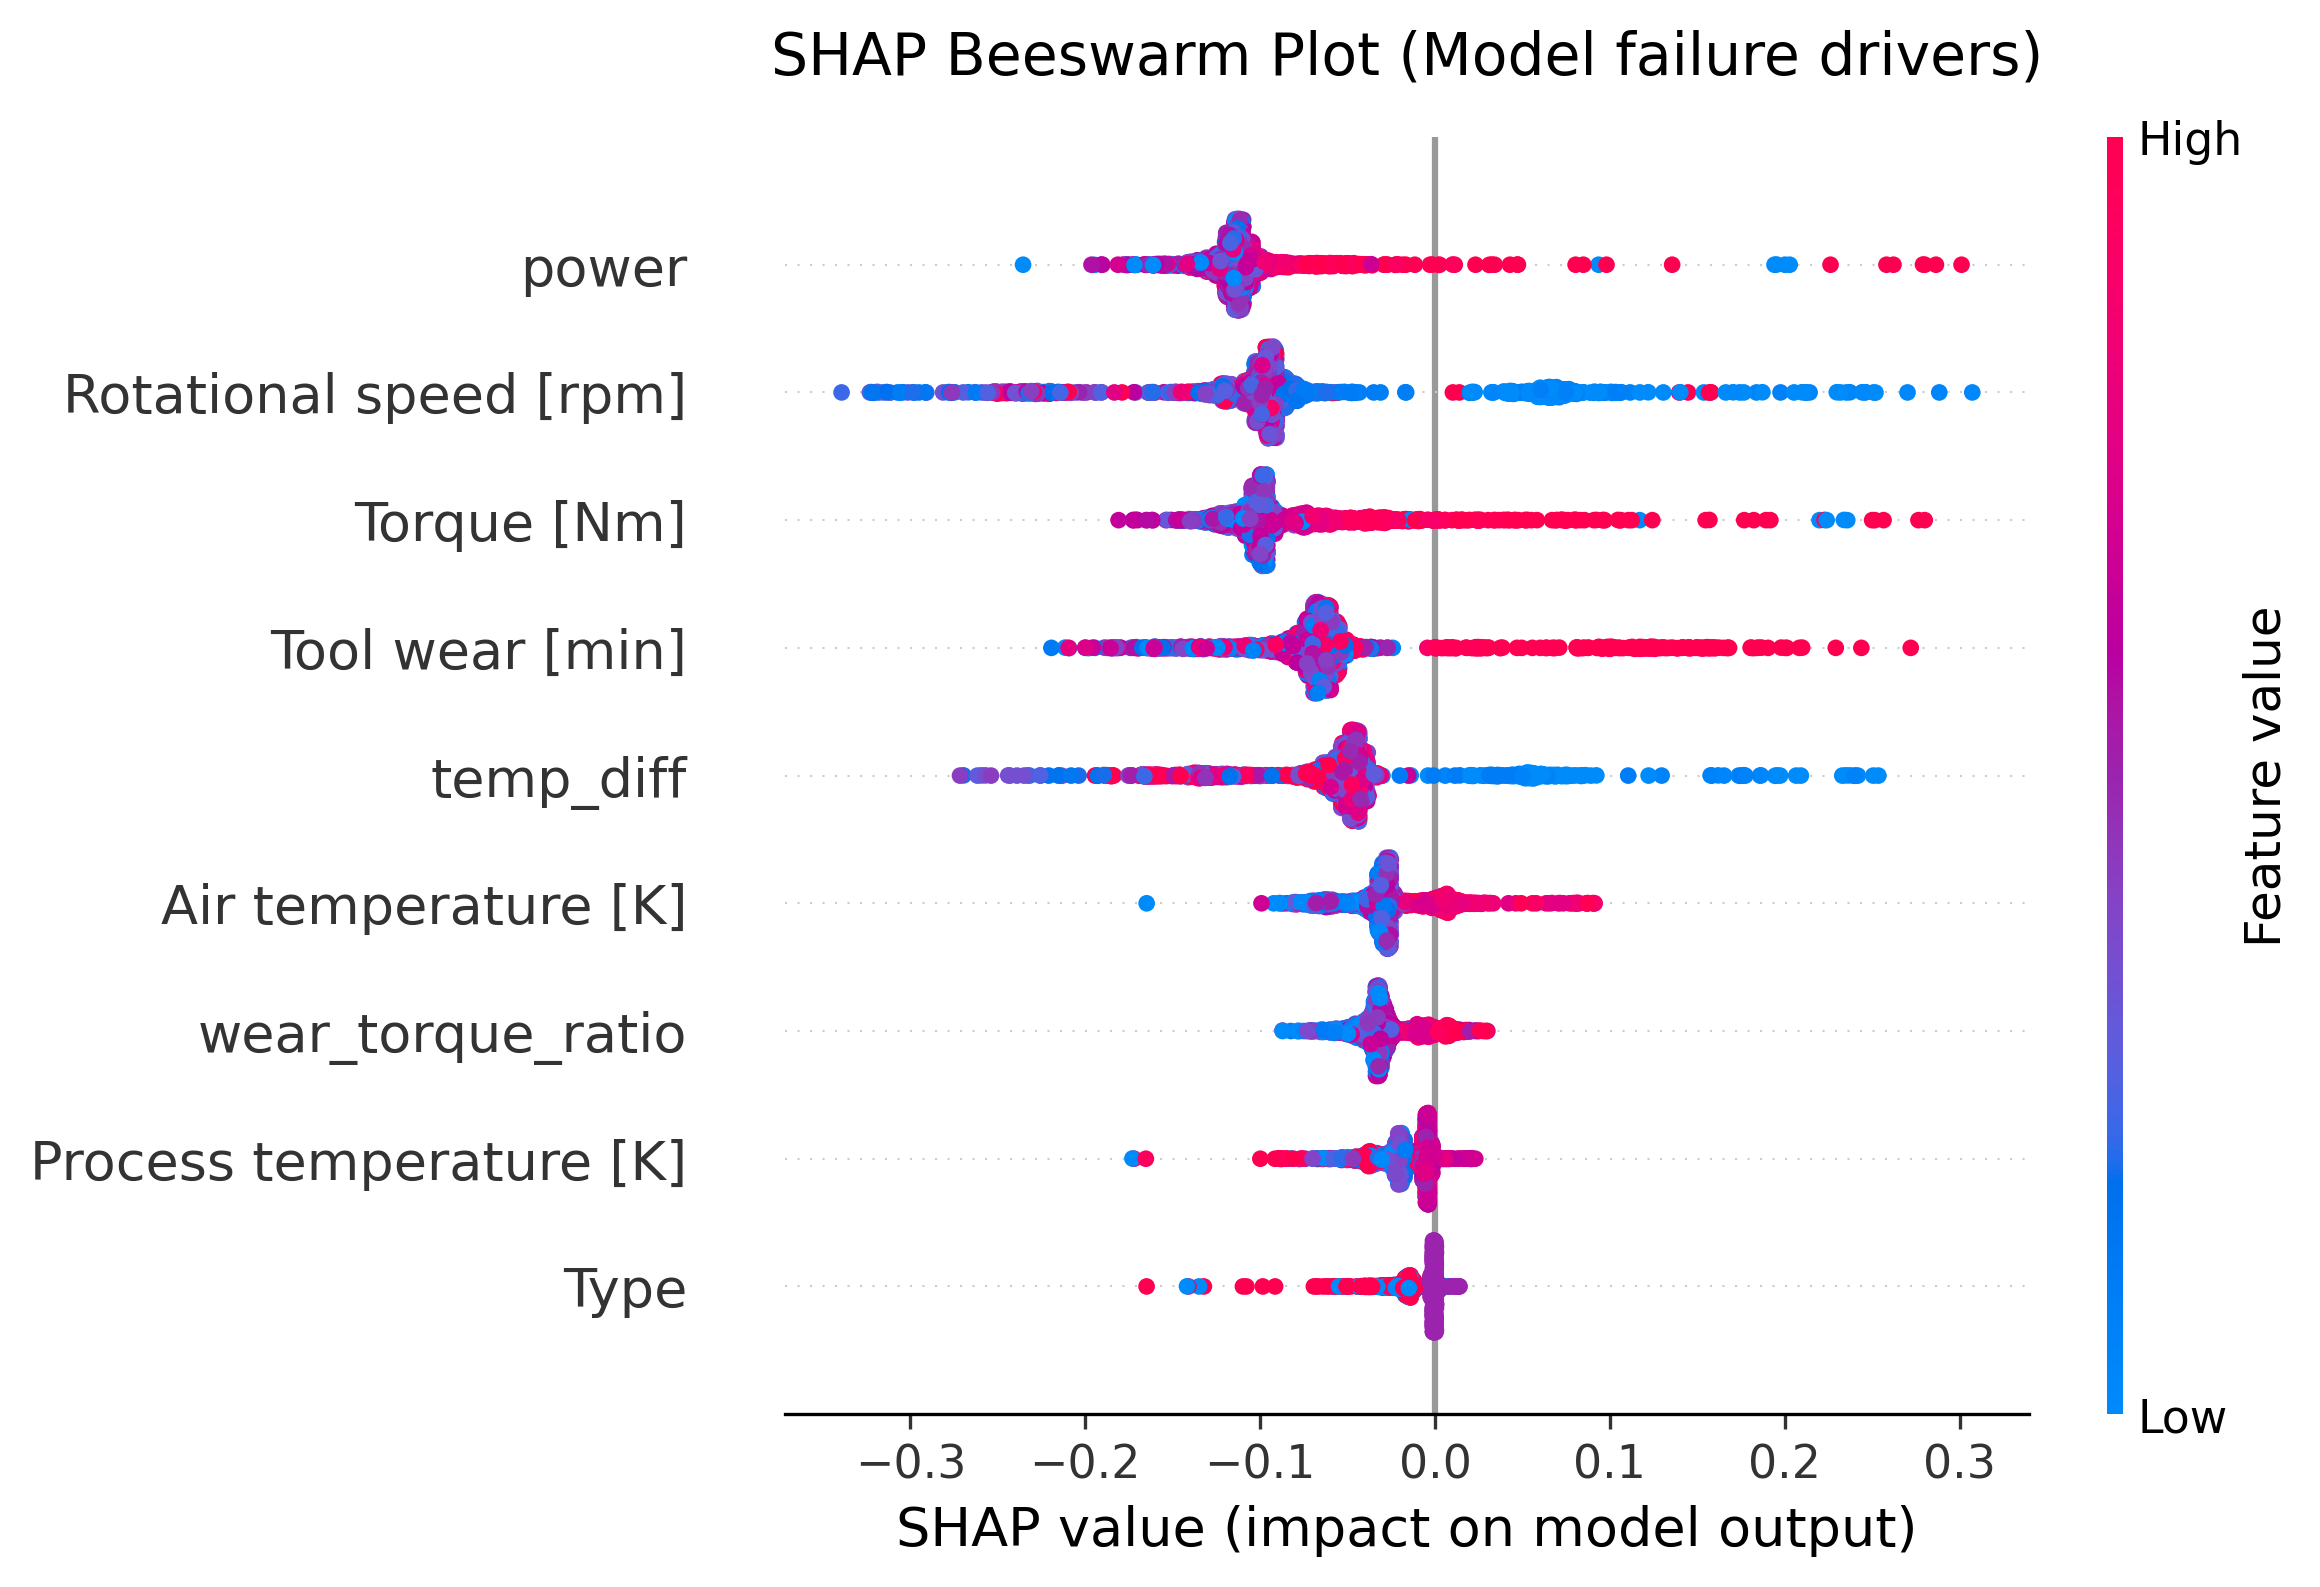
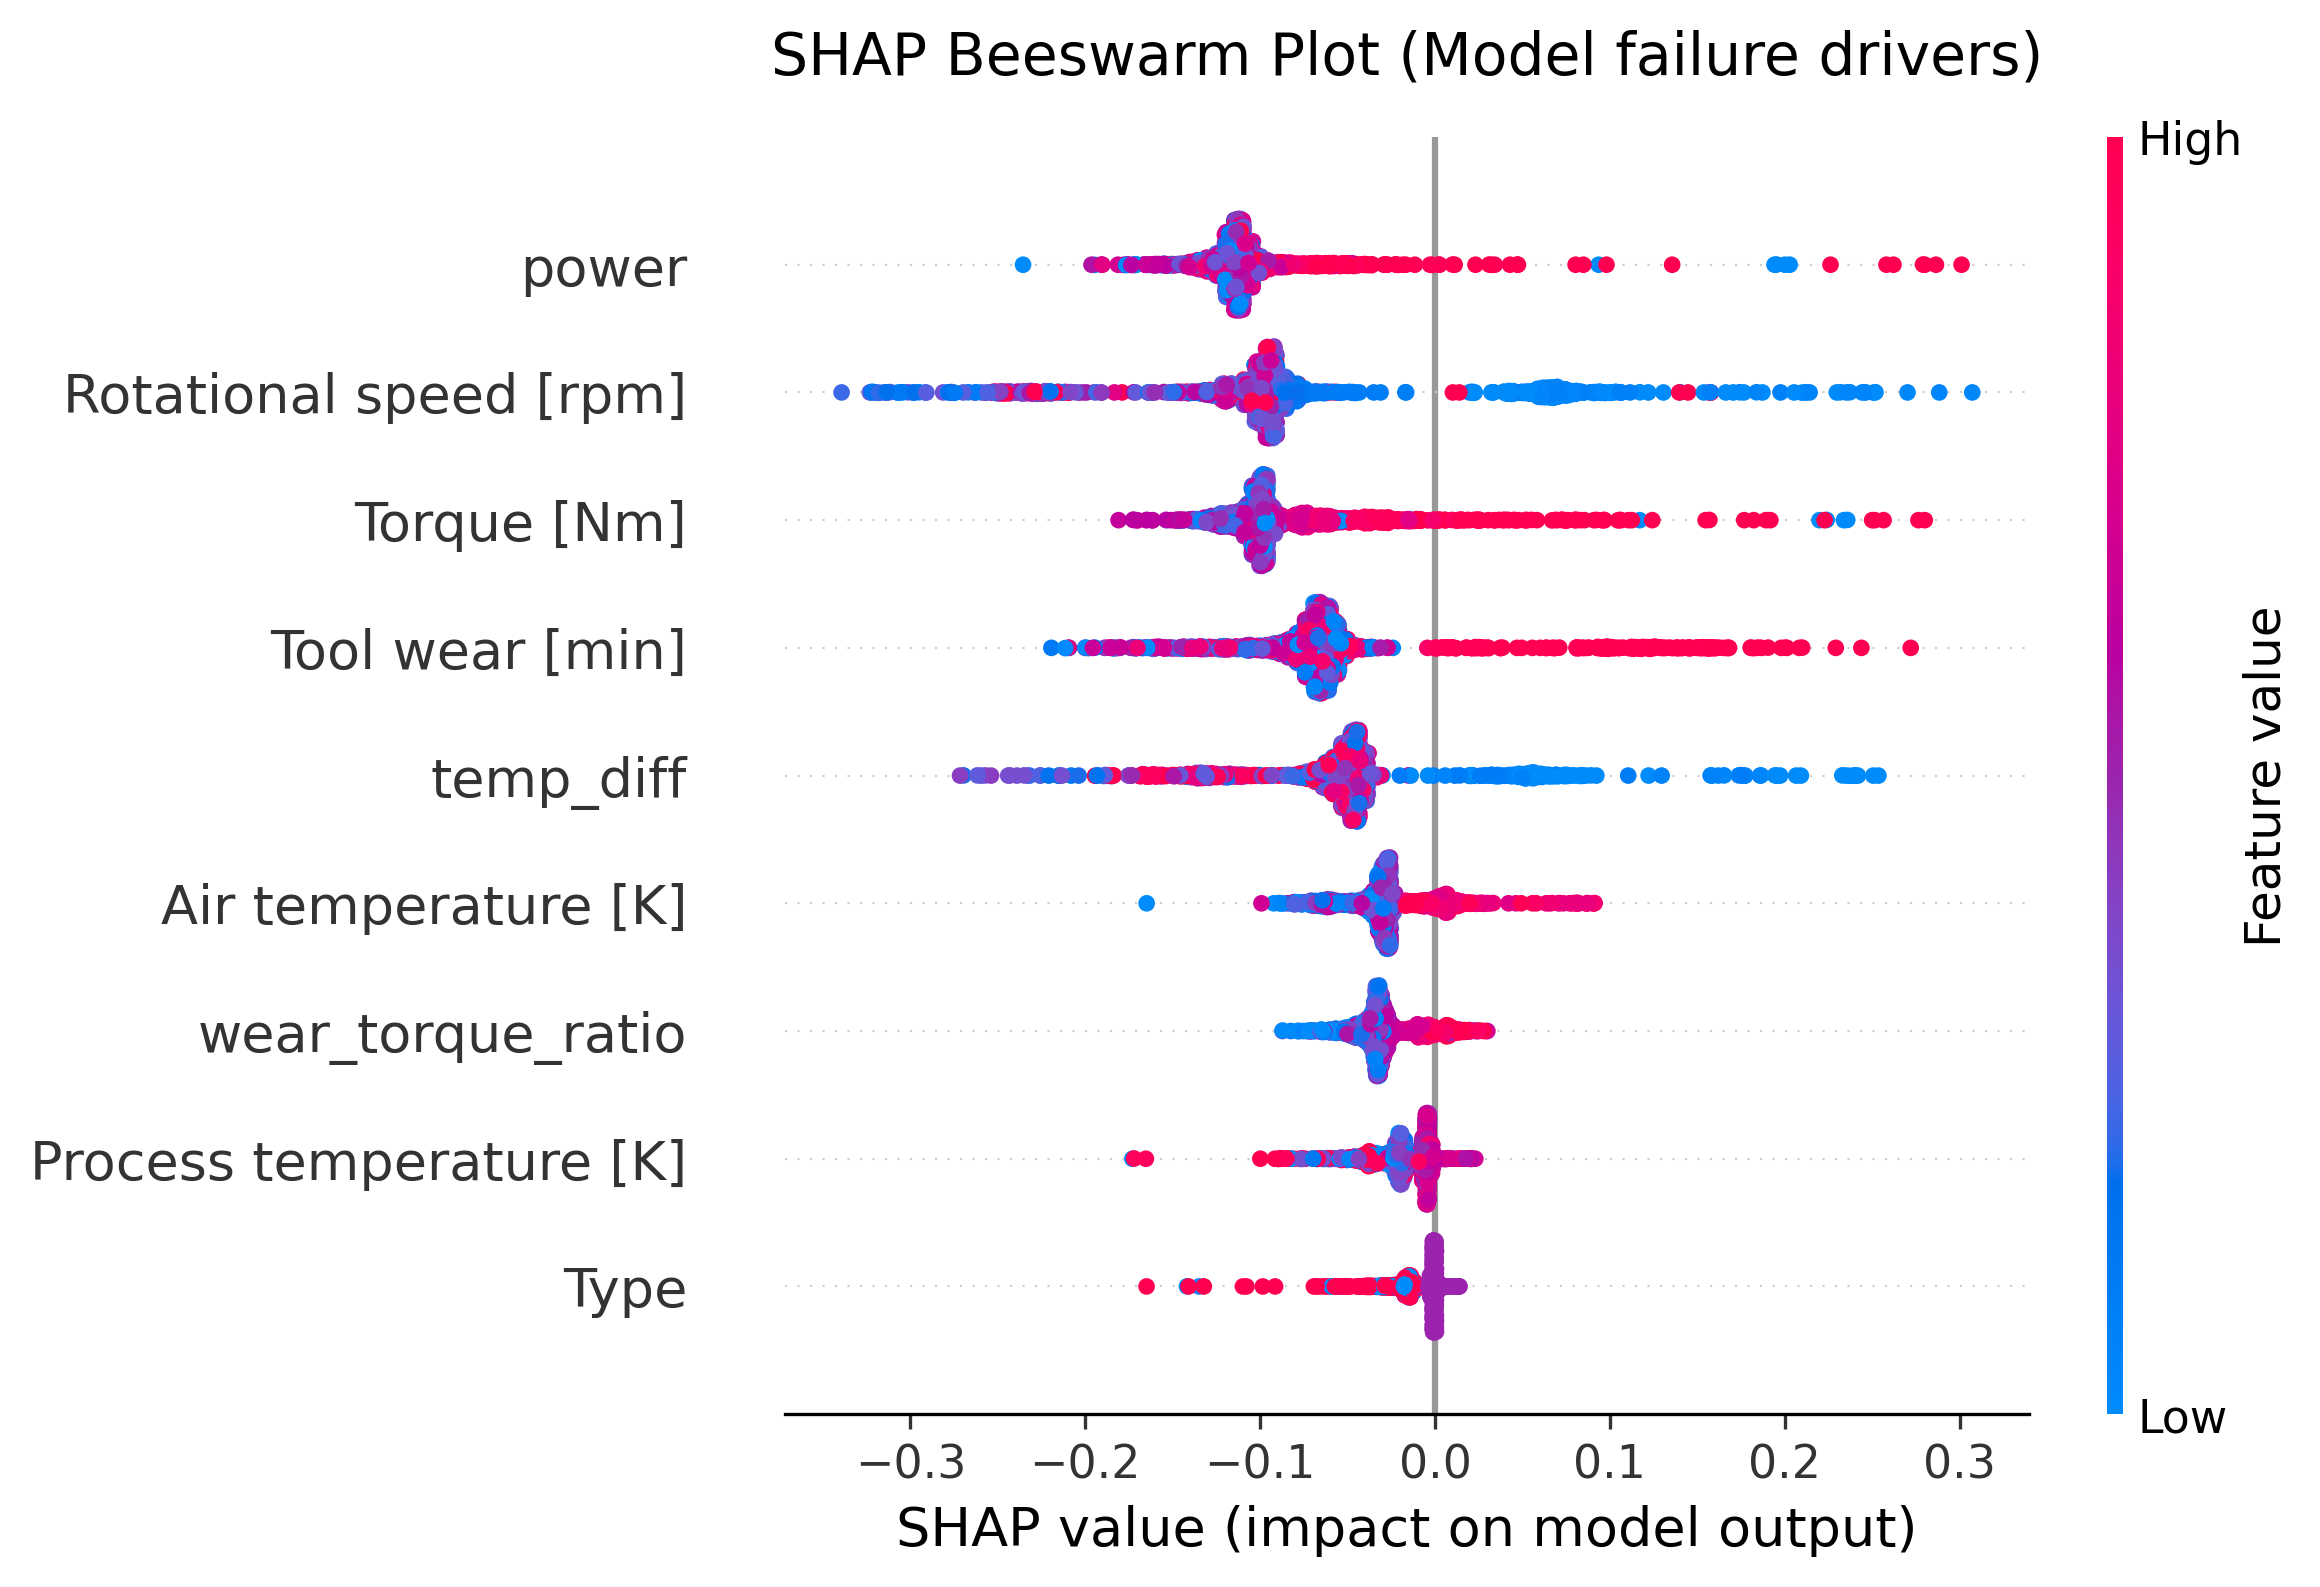
fix(pipeline): refine run_all.py copy pathways, point to task4/v3, and gracefully handle KeyboardInterrupt

diff --git a/run_all.py b/run_all.py
@@ -47,39 +47,29 @@ def main():
         print("\n[ERROR] Task 3 ML Training failed. Aborting RAG execution.")
         sys.exit(task3_process.returncode)
         
-    # 3. Copy model_summary.json into Task 4 v3, v2 and v1 docs/
-    model_summary_src = os.path.join(task3_v3_dir, "outputs", "model_summary.json")
-    if not os.path.exists(model_summary_src):
-        print(f"\n[ERROR] Could not locate model summary JSON at: {model_summary_src}")
-        sys.exit(1)
+    # 3. Copy model_summary.json into Task 4 v3 and v2 docs/
+    model_summary_src  = os.path.join(task3_v3_dir, "outputs", "model_summary.json")
+    model_summary_v2   = os.path.join(base_dir, "task4", "v2", "docs", "model_summary.json")
+    model_summary_v3   = os.path.join(base_dir, "task4", "v3", "docs", "model_summary.json")
+
+    if os.path.exists(model_summary_src):
+        # Ensure destination directories exist before copying
+        os.makedirs(os.path.dirname(model_summary_v2), exist_ok=True)
+        os.makedirs(os.path.dirname(model_summary_v3), exist_ok=True)
+        shutil.copy(model_summary_src, model_summary_v2)
+        print(f"[INTEGRATION] Copied model_summary.json → task4/v2/docs/")
+        shutil.copy(model_summary_src, model_summary_v3)
+        print(f"[INTEGRATION] Copied model_summary.json → task4/v3/docs/")
+    else:
+        print(f"[WARNING] model_summary.json not found at {model_summary_src} — skipping copy")
         
-    # Destination for v3
-    v3_docs_dir = os.path.join(task4_v3_dir, "docs")
-    os.makedirs(v3_docs_dir, exist_ok=True)
-    model_summary_dest_v3 = os.path.join(v3_docs_dir, "model_summary.json")
-    shutil.copy(model_summary_src, model_summary_dest_v3)
-    print(f"\n[INTEGRATION] Successfully copied model_summary.json to Task 4 v3 docs: {model_summary_dest_v3}")
-    
-    # Destination for v2
-    v2_docs_dir = os.path.join(task4_v2_dir, "docs")
-    os.makedirs(v2_docs_dir, exist_ok=True)
-    model_summary_dest_v2 = os.path.join(v2_docs_dir, "model_summary.json")
-    shutil.copy(model_summary_src, model_summary_dest_v2)
-    
-    # Destination for v1 (optional helper)
-    v1_docs_dir = os.path.join(task4_v1_dir, "docs")
-    os.makedirs(v1_docs_dir, exist_ok=True)
-    model_summary_dest_v1 = os.path.join(v1_docs_dir, "model_summary.json")
-    shutil.copy(model_summary_src, model_summary_dest_v1)
-    
     # 4. Part 2: Run Task 4 v3 RAG Assistant
     print("\n[2/2] Running Task 4: RAG Maintenance Assistant (v3 Hybrid Search)...")
-    # Ensure subprocess inherits standard input for interactive prompt looping
     task4_process = subprocess.run(
         [sys.executable, "main.py"],
-        cwd=task4_v3_dir,
+        cwd=os.path.join(base_dir, "task4", "v3"),
         env=os.environ.copy(),
-        stdin=sys.stdin,
+        stdin=subprocess.DEVNULL,
         stdout=sys.stdout,
         stderr=sys.stderr
     )
@@ -93,4 +83,7 @@ def main():
     print("=" * 60)
 
 if __name__ == "__main__":
-    main()
+    try:
+        main()
+    except KeyboardInterrupt:
+        print("\n[run_all.py] Interrupted by user. Exiting cleanly.")